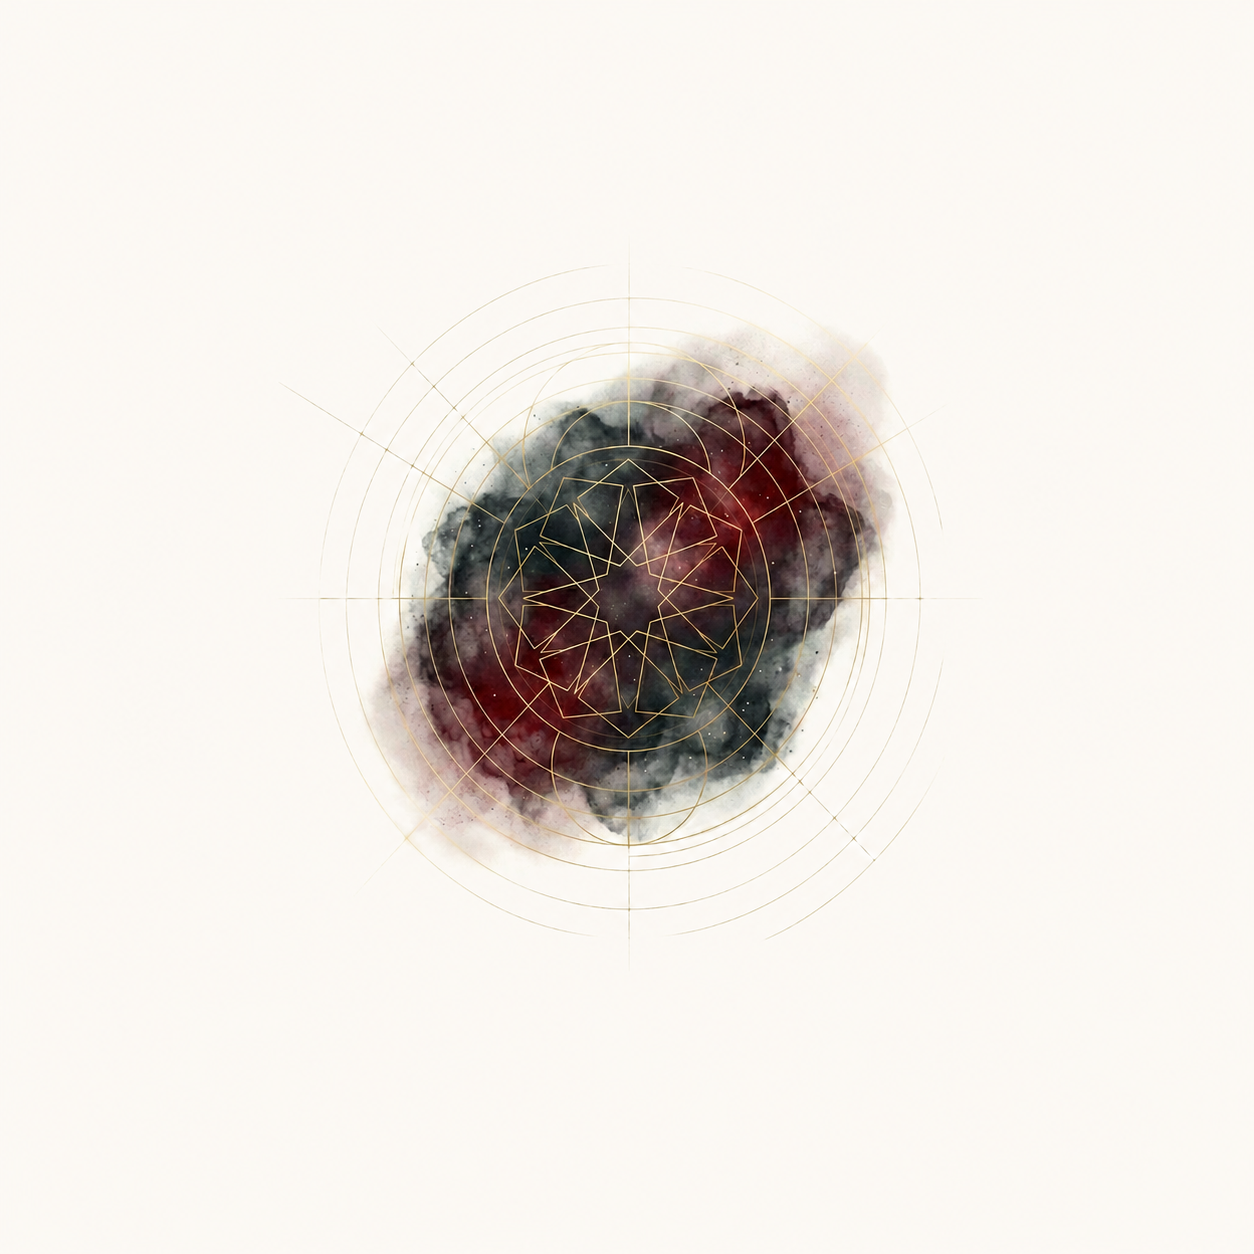
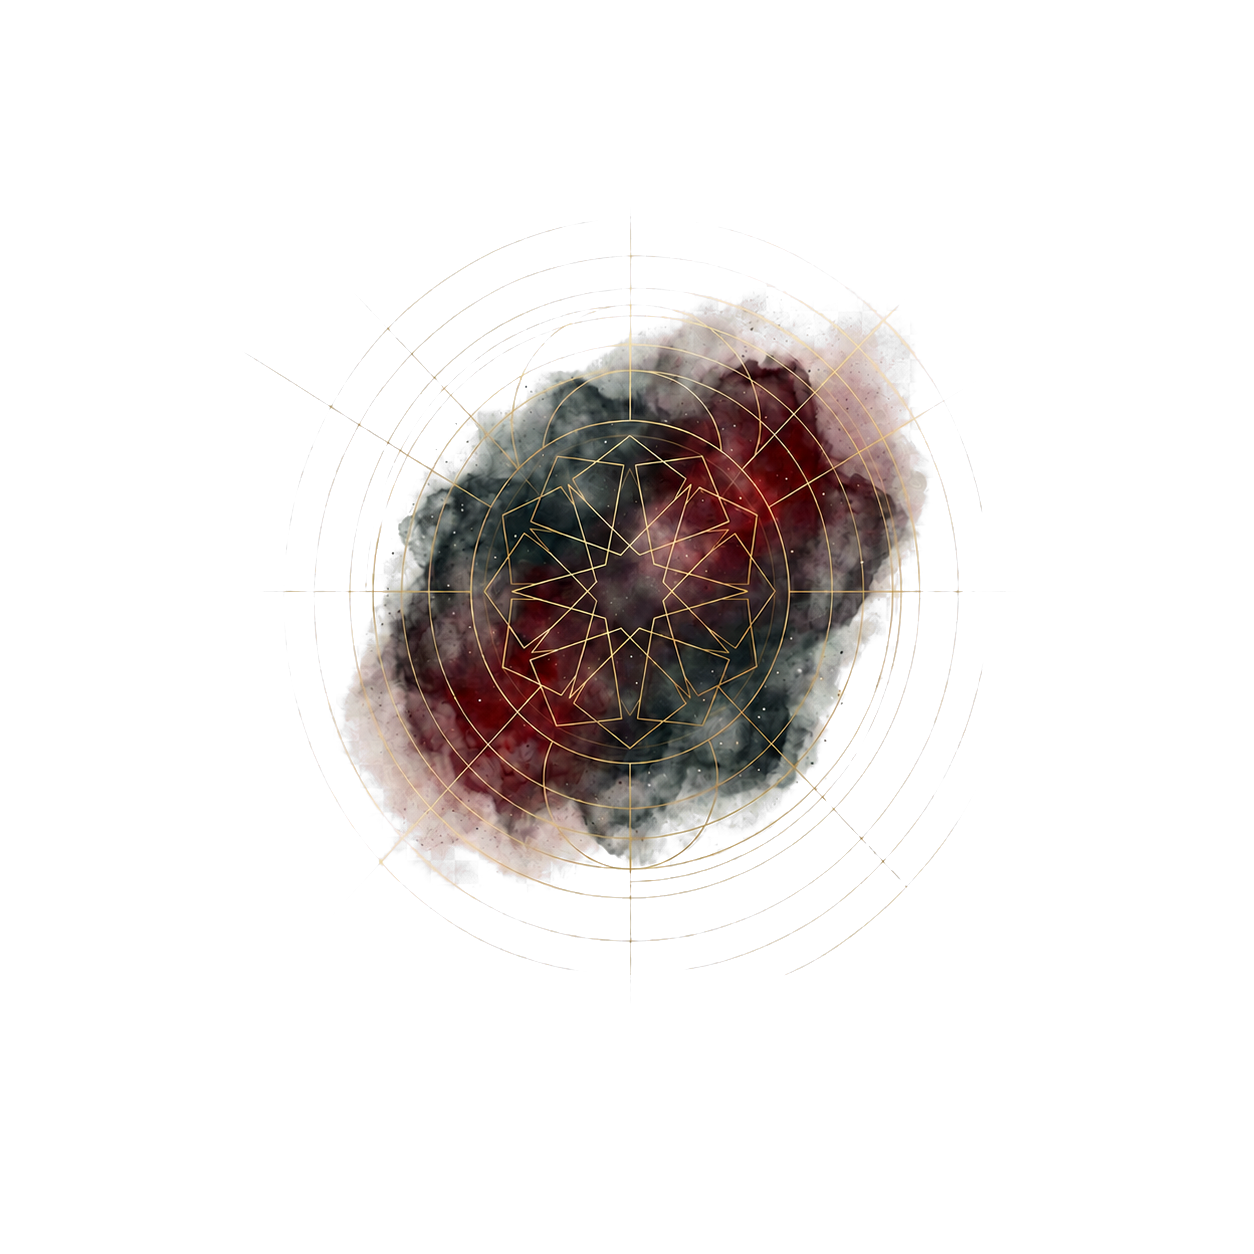
Use true-transparency identity artwork and drop the edge mask
Replace IdentityBG.png with a 1254x1254 version whose background alpha
was extracted programmatically (white-removal with a smoothstep gate
that also strips the baked-in fake checkerboard). The smoke now fades
out naturally, so the radial edge mask is gone and the backdrop blends
seamlessly at any size and over the page gradients.

Changed region(s): [[0.2488, 0.2177, 0.7464, 0.7464]]

diff --git a/src/components/IdentityBackdrop.tsx b/src/components/IdentityBackdrop.tsx
@@ -39,27 +39,16 @@ export default function IdentityBackdrop() {
           justify-content: center;
         }
         .identity-backdrop__art {
-          /* Keep the artwork at its natural aspect ratio, sized to sit
-             comfortably inside the content area on any screen. */
+          /* The PNG has a true transparent background (alpha extracted from
+             the original artwork), so its smoke fades out naturally — no
+             mask needed and no visible edges at any size. */
           width: min(86%, 92vmin, 900px);
-          aspect-ratio: 715 / 682;
+          aspect-ratio: 1 / 1;
           background-image: url('/IdentityBG.png');
           background-repeat: no-repeat;
           background-position: center;
           background-size: contain;
           opacity: 0.5;
-          /* Soft circular fade — dissolves the image's rectangular edges
-             into the page so no border/seam is ever visible. */
-          -webkit-mask-image: radial-gradient(
-            ellipse 50% 50% at 50% 50%,
-            #000 52%,
-            transparent 76%
-          );
-          mask-image: radial-gradient(
-            ellipse 50% 50% at 50% 50%,
-            #000 52%,
-            transparent 76%
-          );
         }
         @media (max-width: 767px) {
           /* Sidebar is off-canvas on mobile — use the full viewport. */